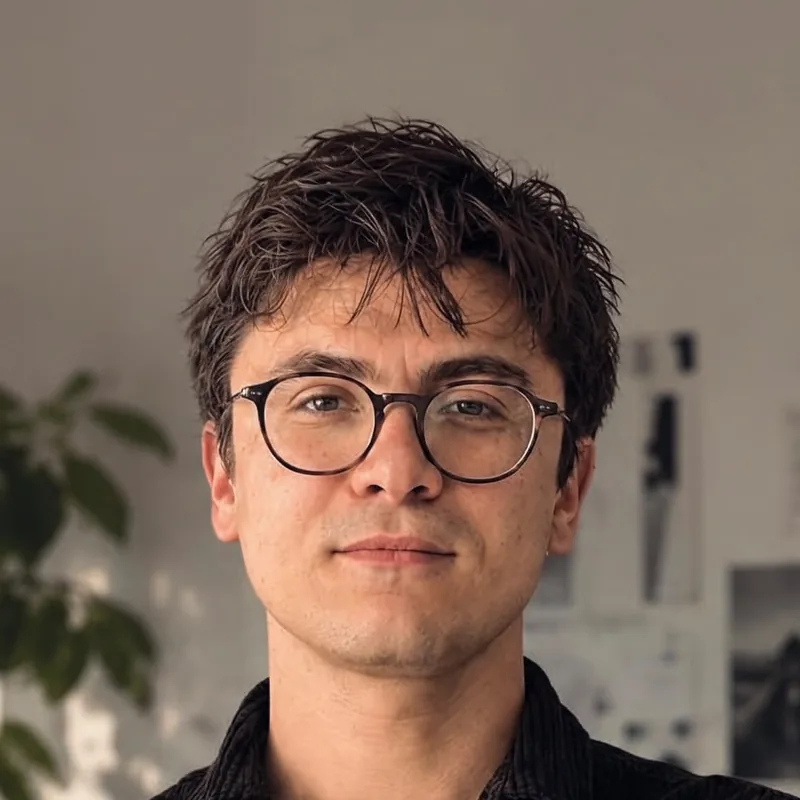
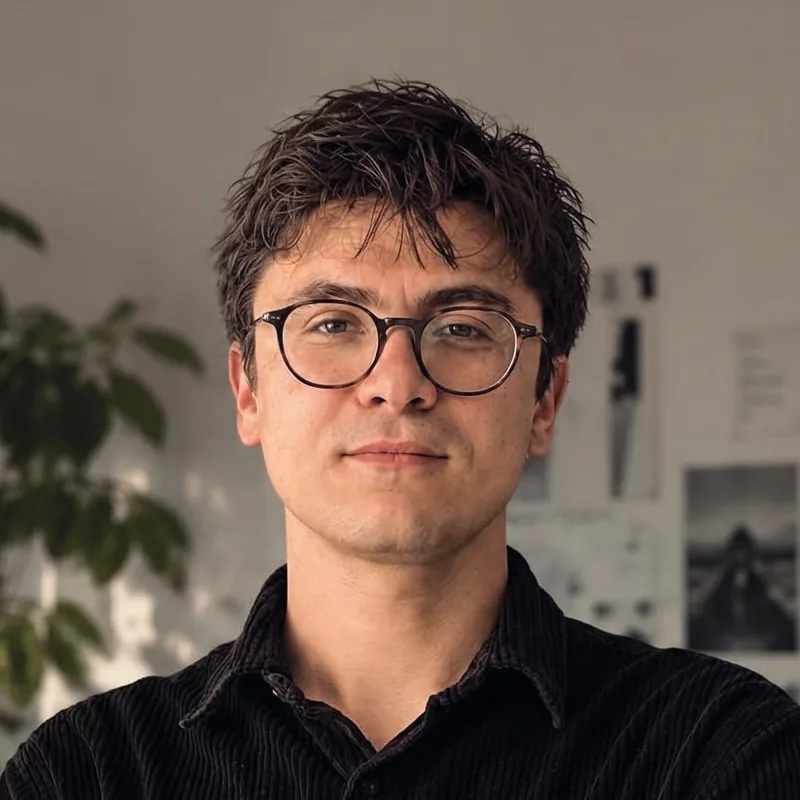
Team: Çağlar's photo and research title, Ceren beside Volkan, new doodles
- Çağlar: Head of Research & Editorial, report doodle
- Zeynep: Social Impact Consultant · NGOs & International Organisations
- Head of Data & Insights card removed; studio count 10
- Semih recropped to match; brush doodle; Volkan route doodle

diff --git a/public/about.html b/public/about.html
@@ -107,7 +107,7 @@
       </div>
       <dl class="ab-facts ld" style="--d:.65s">
         <div><dt>partners</dt><dd>4</dd></div>
-        <div><dt>in the studio</dt><dd>11</dd></div>
+        <div><dt>in the studio</dt><dd>10</dd></div>
         <div><dt>areas of expertise</dt><dd>6</dd></div>
         <div><dt>cities</dt><dd>2</dd></div>
       </dl>
@@ -121,29 +121,29 @@
     <div class="wrap">
       <div class="head">
         <h2 id="partners-h"><span class="mask io"><span>our</span></span><span class="mask io"><span style="--d:.08s">team.</span></span></h2>
-        <div class="head-side rv io"><p>Four partners and a studio of business, writing, social, research, data, design, 3D and architecture people. One team, one brief, from the first call.</p></div>
+        <div class="head-side rv io"><p>Four partners and a studio of business, writing, social, research, design, 3D and architecture people. One team, one brief, from the first call.</p></div>
       </div>
       <svg width="0" height="0" style="position:absolute" aria-hidden="true" focusable="false"><filter id="chalk" x="-10%" y="-10%" width="120%" height="120%"><feTurbulence type="fractalNoise" baseFrequency="0.035" numOctaves="2" seed="4" result="wob"/><feDisplacementMap in="SourceGraphic" in2="wob" scale="5" xChannelSelector="R" yChannelSelector="G" result="d"/><feTurbulence type="fractalNoise" baseFrequency="0.85" numOctaves="2" seed="9" result="grain"/><feColorMatrix in="grain" type="matrix" values="0 0 0 0 0 0 0 0 0 0 0 0 0 0 0 -3.2 0 0 0 2.4" result="mask"/><feComposite in="d" in2="mask" operator="in"/></filter></svg>
 <ul class="tm-grid">
         <li class="tm x-advisory io" style="--d:0.00s">
-          <div class="tm-ph"><img src="/team/volkan.webp" alt="Volkan" width="800" height="800" loading="lazy" decoding="async"><svg class="doodle" viewBox="0 0 100 100" preserveAspectRatio="none" aria-hidden="true"><circle pathLength="1" cx="80" cy="19" r="9"/><circle pathLength="1" cx="80" cy="19" r="3.5"/><path pathLength="1" d="M65 34L76 23M69.5 22.5h7v7"/></svg></div>
+          <div class="tm-ph"><img src="/team/volkan.webp" alt="Volkan" width="800" height="800" loading="lazy" decoding="async"><svg class="doodle" viewBox="0 0 100 100" preserveAspectRatio="none" aria-hidden="true"><circle pathLength="1" cx="70" cy="30" r="2.5"/><path pathLength="1" d="M72.5 28q4-7 8-4q5 3 7-6"/><path pathLength="1" d="M87.5 18v-13l8 3.5l-8 3.5"/></svg></div>
           <h3 class="tm-name">Volkan</h3>
           <p class="tm-role">Managing Partner / Head of Strategy</p>
         </li>
-        <li class="tm x-creative io" style="--d:0.06s">
-          <div class="tm-ph"><img src="/team/semih.webp" alt="Semih" width="800" height="800" loading="lazy" decoding="async"><svg class="doodle" viewBox="0 0 100 100" preserveAspectRatio="none" aria-hidden="true"><path pathLength="1" d="M79 27q-6-4-4-11q2-7 8-7q6 0 8 7q2 7-4 11v4h-8zM79 34h8"/><path pathLength="1" d="M83 4v-2M71 9l-2-1.5M95 9l2-1.5"/><path pathLength="1" d="M13 74v-5h5M27 69h5v5M32 83v5h-5M18 88h-5v-5"/></svg></div>
-          <h3 class="tm-name">Semih</h3>
-          <p class="tm-role">Partner / Executive Creative Director</p>
-        </li>
-        <li class="tm x-brand io" style="--d:0.12s">
+        <li class="tm x-brand io" style="--d:0.06s">
           <div class="tm-ph"><img src="/team/ceren.webp" alt="Ceren" width="800" height="800" loading="lazy" decoding="async"><svg class="doodle" viewBox="0 0 100 100" preserveAspectRatio="none" aria-hidden="true"><g transform="translate(6.0 -4.0) scale(0.88)"><path pathLength="1" d="M-13 6L-11 -8L-4 0L0 -11L4 0L11 -8L13 6Q0 2 -13 6Z" transform="translate(50 12) rotate(14)"/><path pathLength="1" d="M88 30v12M82 36h12"/><path pathLength="1" d="M8 118l9-8l7 4l11-12M28 102h7v7"/></g></svg></div>
           <h3 class="tm-name">Ceren</h3>
           <p class="tm-role">Partner / Head of Growth &amp; Client Relations</p>
         </li>
+        <li class="tm x-creative io" style="--d:0.12s">
+          <div class="tm-ph"><img src="/team/semih.webp" alt="Semih" width="800" height="800" loading="lazy" decoding="async"><svg class="doodle" viewBox="0 0 100 100" preserveAspectRatio="none" aria-hidden="true"><path pathLength="1" d="M98 2L86 14"/><path pathLength="1" d="M86 12l5 5l-4 4l-5-5z"/><path pathLength="1" d="M82 18q-4 7-11 7q1-8 8-10"/></svg></div>
+          <h3 class="tm-name">Semih</h3>
+          <p class="tm-role">Partner / Executive Creative Director</p>
+        </li>
         <li class="tm x-corporate io" style="--d:0.18s">
-          <div class="tm-ph"><img src="/team/03.webp" alt="" width="720" height="720" loading="lazy" decoding="async"><svg class="doodle" viewBox="0 0 100 100" preserveAspectRatio="none" aria-hidden="true"><g transform="translate(10 0) scale(.8)"><path pathLength="1" d="M74 12q-7 4-5 12M85 12q-7 4-5 12"/><path pathLength="1" d="M8 108h34"/><path pathLength="1" d="M18 102l5-7l5 7"/></g></svg></div>
+          <div class="tm-ph"><img src="/team/caglar.webp" alt="Çağlar" width="800" height="800" loading="lazy" decoding="async"><svg class="doodle" viewBox="0 0 100 100" preserveAspectRatio="none" aria-hidden="true"><path pathLength="1" d="M79 6h12l5 5v21h-17z"/><path pathLength="1" d="M91 6v5h5"/><path pathLength="1" d="M82.5 16h10M82.5 21h10M82.5 26h6"/></svg></div>
           <h3 class="tm-name">Çağlar</h3>
-          <p class="tm-role">Partner / Editor-in-Chief</p>
+          <p class="tm-role">Partner / Head of Research &amp; Editorial</p>
         </li>
         <li class="tm x-brand io" style="--d:0.00s">
           <div class="tm-ph"><img src="/team/ulas.webp" alt="Ulaş Baran Günhan" width="800" height="800" loading="lazy" decoding="async"><svg class="doodle" viewBox="0 0 100 100" preserveAspectRatio="none" aria-hidden="true"><g transform="translate(-1.5 -6.5)"><path pathLength="1" d="M83 13l2.5 0.6l0.4 3.2l2.4 1.4l2.8-1.6l1.8 1.8l-1.6 2.8l1.4 2.4l3.2 0.4l0 3l-3.2 0.4l-1.4 2.4l1.6 2.8l-1.8 1.8l-2.8-1.6l-2.4 1.4l-0.4 3.2l-3 0l-0.4-3.2l-2.4-1.4l-2.8 1.6l-1.8-1.8l1.6-2.8l-1.4-2.4l-3.2-0.4l0-3l3.2-0.4l1.4-2.4l-1.6-2.8l1.8-1.8l2.8 1.6l2.4-1.4l0.4-3.2z"/><circle pathLength="1" cx="83.5" cy="26.5" r="4"/></g><path pathLength="1" d="M16 80L36 62M27 62h9v9"/></svg></div>
@@ -163,7 +163,7 @@
         <li class="tm x-research io" style="--d:0.18s">
           <div class="tm-ph"><img src="/team/zeynep.webp" alt="Zeynep Bastıyalı" width="800" height="800" loading="lazy" decoding="async"><svg class="doodle" viewBox="0 0 100 100" preserveAspectRatio="none" aria-hidden="true"><circle pathLength="1" cx="80" cy="20" r="6.5"/><path pathLength="1" d="M85 25l7 7"/><path pathLength="1" d="M70 80h18M73 80v-7M79 80v-12M85 80v-17"/></svg></div>
           <h3 class="tm-name">Zeynep Bastıyalı</h3>
-          <p class="tm-role">Research &amp; Social Impact Consultant</p>
+          <p class="tm-role">Social Impact Consultant · NGOs &amp; International Organisations</p>
         </li>
         <li class="tm x-creative io" style="--d:0.00s">
           <div class="tm-ph"><img src="/team/nehir.webp" alt="Nehir Bal" width="800" height="800" loading="lazy" decoding="async"><svg class="doodle" viewBox="0 0 100 100" preserveAspectRatio="none" aria-hidden="true"><circle pathLength="1" cx="80" cy="6" r="2"/><path pathLength="1" d="M79 8L72 28M81 8L88 28M73 24q7 5 14 0"/><path pathLength="1" d="M9 38v30M6 38h6M6 68h6"/></svg></div>
@@ -174,11 +174,6 @@
           <div class="tm-ph"><img src="/team/ozan.webp" alt="Ozan Serkan Muyan" width="800" height="800" loading="lazy" decoding="async"><svg class="doodle" viewBox="0 0 100 100" preserveAspectRatio="none" aria-hidden="true"><g transform="translate(3.8 -8.7) scale(0.94)"><path pathLength="1" d="M68 18l11-6l11 6v13l-11 6l-11-6z"/><path pathLength="1" d="M68 18l11 6l11-6M79 24v13"/><path pathLength="1" d="M18 70c1 7 3 9 10 10c-7 1-9 3-10 10c-1-7-3-9-10-10c7-1 9-3 10-10z"/></g></svg></div>
           <h3 class="tm-name">Ozan Serkan Muyan</h3>
           <p class="tm-role">Architect / Creative Technologist · 3D &amp; AI</p>
-        </li>
-        <li class="tm x-research io" style="--d:0.12s">
-          <div class="tm-ph"><img src="/team/01.webp" alt="" width="720" height="720" loading="lazy" decoding="async"><svg class="doodle" viewBox="0 0 100 100" preserveAspectRatio="none" aria-hidden="true"><g transform="translate(10 0) scale(.8)"><circle pathLength="1" cx="83" cy="22" r="11"/><path pathLength="1" d="M83 11v11h11"/><path pathLength="1" d="M8 116l10-9l8 4l10-12l8 5"/><circle pathLength="1" cx="18" cy="107" r="1.6"/><circle pathLength="1" cx="36" cy="99" r="1.6"/></g></svg></div>
-          <h3 class="tm-name">Name Surname</h3>
-          <p class="tm-role">Head of Data &amp; Insights</p>
         </li>
         <li class="tm x-creative io" style="--d:0.18s">
           <div class="tm-ph"><img src="/team/mani.webp" alt="Mani Bagheri Hosseini" width="800" height="800" loading="lazy" decoding="async"><svg class="doodle" viewBox="0 0 100 100" preserveAspectRatio="none" aria-hidden="true"><g transform="translate(0.5 -9.2) scale(0.98)"><circle pathLength="1" cx="39" cy="50" r="7.5"/><circle pathLength="1" cx="57" cy="50" r="7.5"/><path pathLength="1" d="M46.5 50q1.5-2 3 0M31.5 49l-8-3M64.5 49l8-3"/></g></svg></div>
